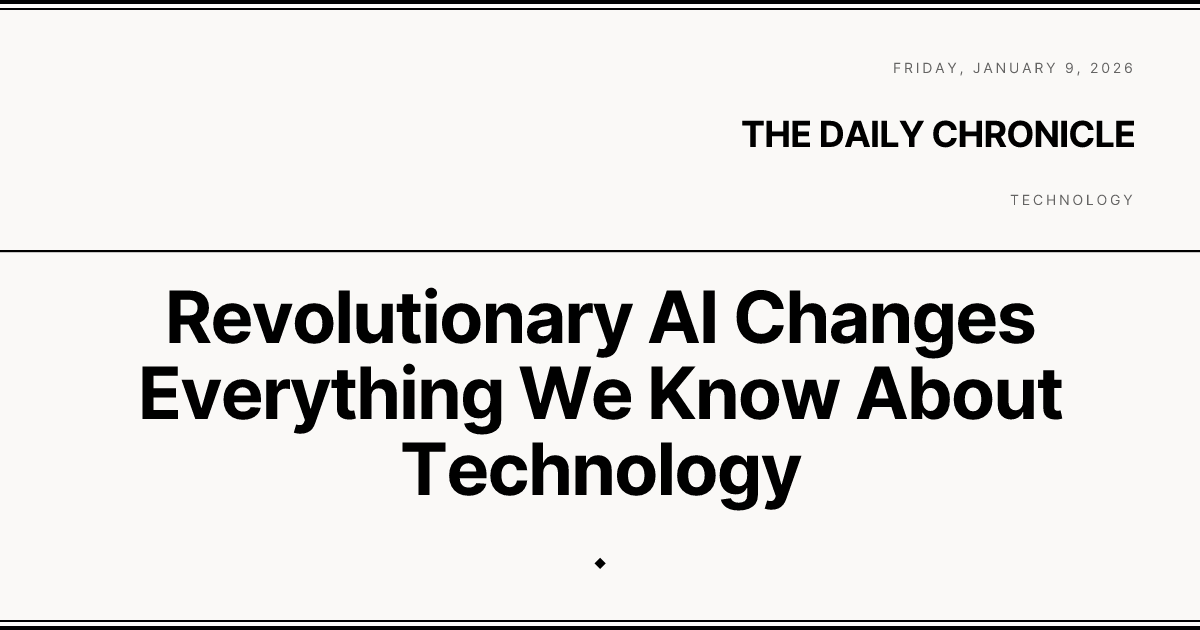
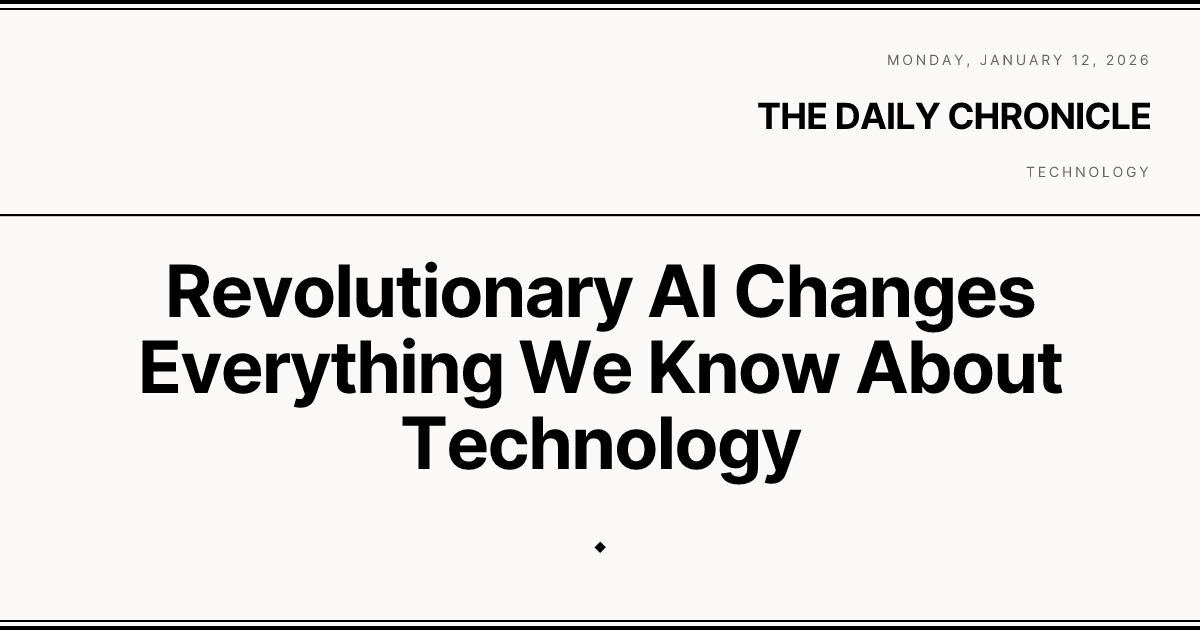
chore: sync

diff --git a/scripts/generate-template-snapshots.ts b/scripts/generate-template-snapshots.ts
@@ -12,6 +12,7 @@
 import { existsSync, mkdirSync, writeFileSync } from 'node:fs'
 import { dirname, join } from 'node:path'
 import { fileURLToPath } from 'node:url'
+import { encodeOgImageParams } from '../src/runtime/shared/urlEncoding'
 
 const __dirname = dirname(fileURLToPath(import.meta.url))
 
@@ -81,13 +82,6 @@ const templates: { name: string, props: Record<string, any> }[] = [
     },
   },
   {
-    name: 'Aurora',
-    props: {
-      title: 'Discover the Northern Lights',
-      description: 'An ethereal journey through the cosmos',
-    },
-  },
-  {
     name: 'Retro',
     props: {
       title: 'Welcome to the Grid',
@@ -126,14 +120,15 @@ async function generateSnapshots() {
     console.log(`\n--- ${dim.label} (${dim.width}x${dim.height}) ---`)
 
     for (const template of templates) {
-      const params = new URLSearchParams()
-      params.set('component', template.name)
-      params.set('width', String(dim.width))
-      params.set('height', String(dim.height))
-      for (const [key, value] of Object.entries(template.props)) {
-        params.set(key, String(value))
-      }
-      const url = `${baseUrl}/__og-image__/image/templates/${template.name}/og.png?${params.toString()}`
+      // Build URL using new /_og/d/ format with encoded params in path
+      const encoded = encodeOgImageParams({
+        component: template.name,
+        width: dim.width,
+        height: dim.height,
+        emojis: 'noto',
+        props: template.props,
+      })
+      const url = `${baseUrl}/_og/d/${encoded}.png`
       const outputPath = join(outputDir, `${dim.prefix}${template.name}.png`)
 
       process.stdout.write(`  ${dim.prefix}${template.name}... `)

diff --git a/src/runtime/app/components/Templates/Community/Nuxt.vue b/src/runtime/app/components/Templates/Community/Nuxt.vue
@@ -45,11 +45,11 @@ const description = computed(() => (props.description || '').slice(0, 200))
       </defs>
     </svg>
 
-    <div class="w-[700px] pl-[100px]">
+    <div class="max-w-[700px] pl-[100px]">
       <p v-if="headline" class="uppercase text-[24px] text-[#00DC82] mb-4 font-semibold">
         {{ headline }}
       </p>
-      <h1 v-if="title" class="w-[700px] m-0 text-[75px] font-semibold mb-4 text-white" style="display: block; line-clamp: 2; text-overflow: ellipsis;">
+      <h1 v-if="title" class="m-0 text-[75px] font-semibold mb-4 text-white" style="display: block; line-clamp: 2; text-overflow: ellipsis;">
         {{ title }}
       </h1>
       <p v-if="description" class="text-[32px] text-[#E4E4E7] leading-tight" style="display: block; line-clamp: 3; text-overflow: ellipsis;">

diff --git a/src/runtime/app/components/Templates/Community/SimpleBlog.vue b/src/runtime/app/components/Templates/Community/SimpleBlog.vue
@@ -33,7 +33,7 @@ const website = computed(() => {
     <div class="absolute w-[200px] h-[200px] rounded-full opacity-[0.03]" style="background: #3b82f6; bottom: -50px; right: 200px;" />
 
     <div class="flex flex-col justify-between w-full h-full pl-12 pr-16 py-14 relative z-10">
-      <h1 class="text-[72px] font-bold text-slate-800 leading-[1.1] tracking-tight max-w-[950px]" style="display: block; line-clamp: 2; text-overflow: ellipsis;">
+      <h1 class="text-[72px] font-bold text-slate-800 leading-[1.1] tracking-tight max-w-[90%]" style="display: block; line-clamp: 2; text-overflow: ellipsis;">
         {{ title }}
       </h1>
       <div class="flex items-center gap-3">

diff --git a/src/runtime/app/components/Templates/Community/Newspaper.vue b/src/runtime/app/components/Templates/Community/Newspaper.vue
@@ -40,7 +40,7 @@ const formattedDate = computed(() => {
     <div class="px-12 pt-6 pb-4 border-b-2 border-black">
       <div class="flex items-end justify-between">
         <p class="text-sm leading-1.5 tracking-[0.2em] uppercase text-black/60">
-          foo: {{ formattedDate }}
+          {{ formattedDate }}
         </p>
         <h2 class="text-4xl leading-1 font-black tracking-tight text-black uppercase" style="font-style: italic; line-height: 20px;">
           {{ publication }}

diff --git a/playground/pages/templates/index.vue b/playground/pages/templates/index.vue
@@ -10,7 +10,6 @@ const templates = [
   { name: 'Pergel', description: 'Warm gradient blobs on dark' },
   { name: 'UnJs', description: 'Package stats display for repos' },
   { name: 'Brutalist', description: 'Neo-brutalist bold typography' },
-  { name: 'Aurora', description: 'Glassmorphism northern lights' },
   { name: 'Retro', description: 'Synthwave retro-futuristic' },
   { name: 'Newspaper', description: 'Editorial magazine style' },
 ]

diff --git a/src/runtime/app/components/Templates/Community/Pergel.vue b/src/runtime/app/components/Templates/Community/Pergel.vue
@@ -33,7 +33,7 @@ const title = computed(() => props.title.slice(0, 60))
       </defs>
     </svg>
 
-    <div class="max-w-[700px] pl-16 pr-[280px] relative z-10">
+    <div class="max-w-[60%] pl-16 relative z-10">
       <p v-if="headline" class="uppercase text-[22px] text-amber-400 mb-3 font-semibold tracking-wider">
         {{ headline }}
       </p>

diff --git a/playground/nuxt.config.ts b/playground/nuxt.config.ts
@@ -74,7 +74,6 @@ export default defineNuxtConfig({
         '/templates/Pergel',
         '/templates/UnJs',
         '/templates/Brutalist',
-        '/templates/Aurora',
         '/templates/Retro',
         '/templates/Newspaper',
       ],
